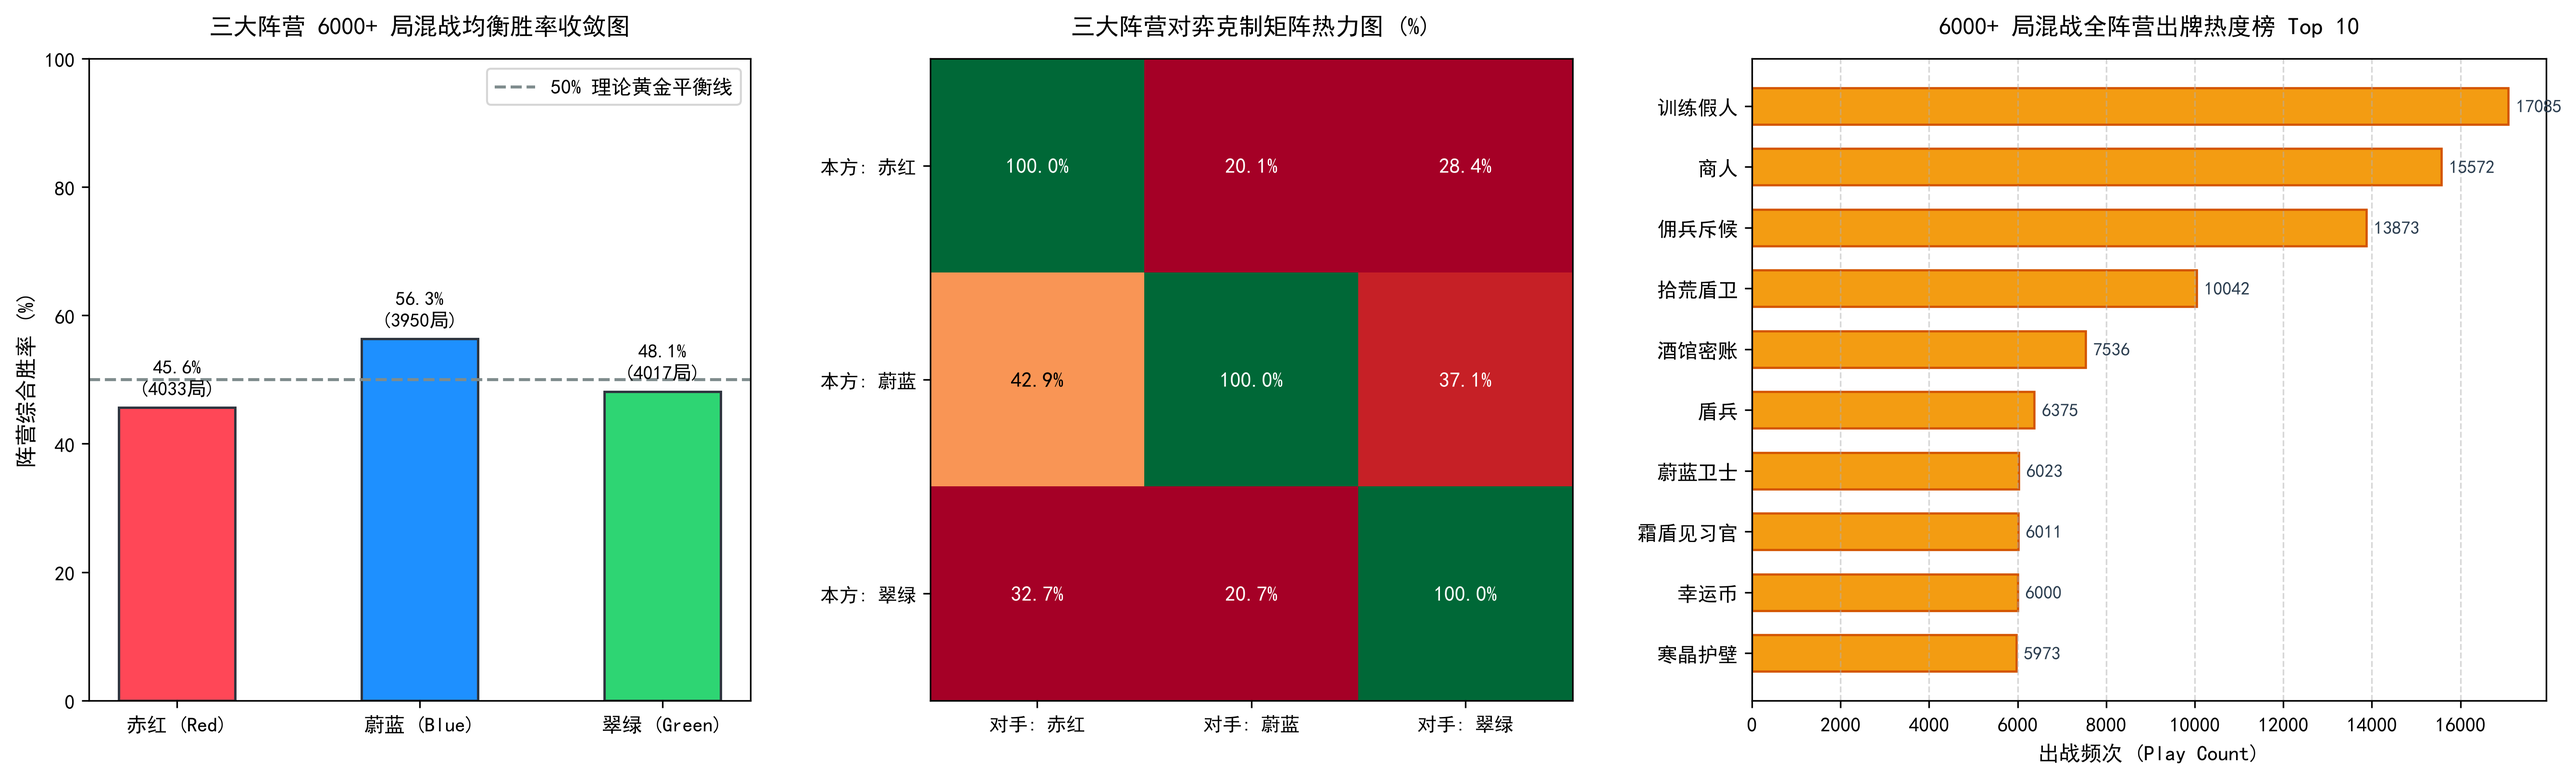
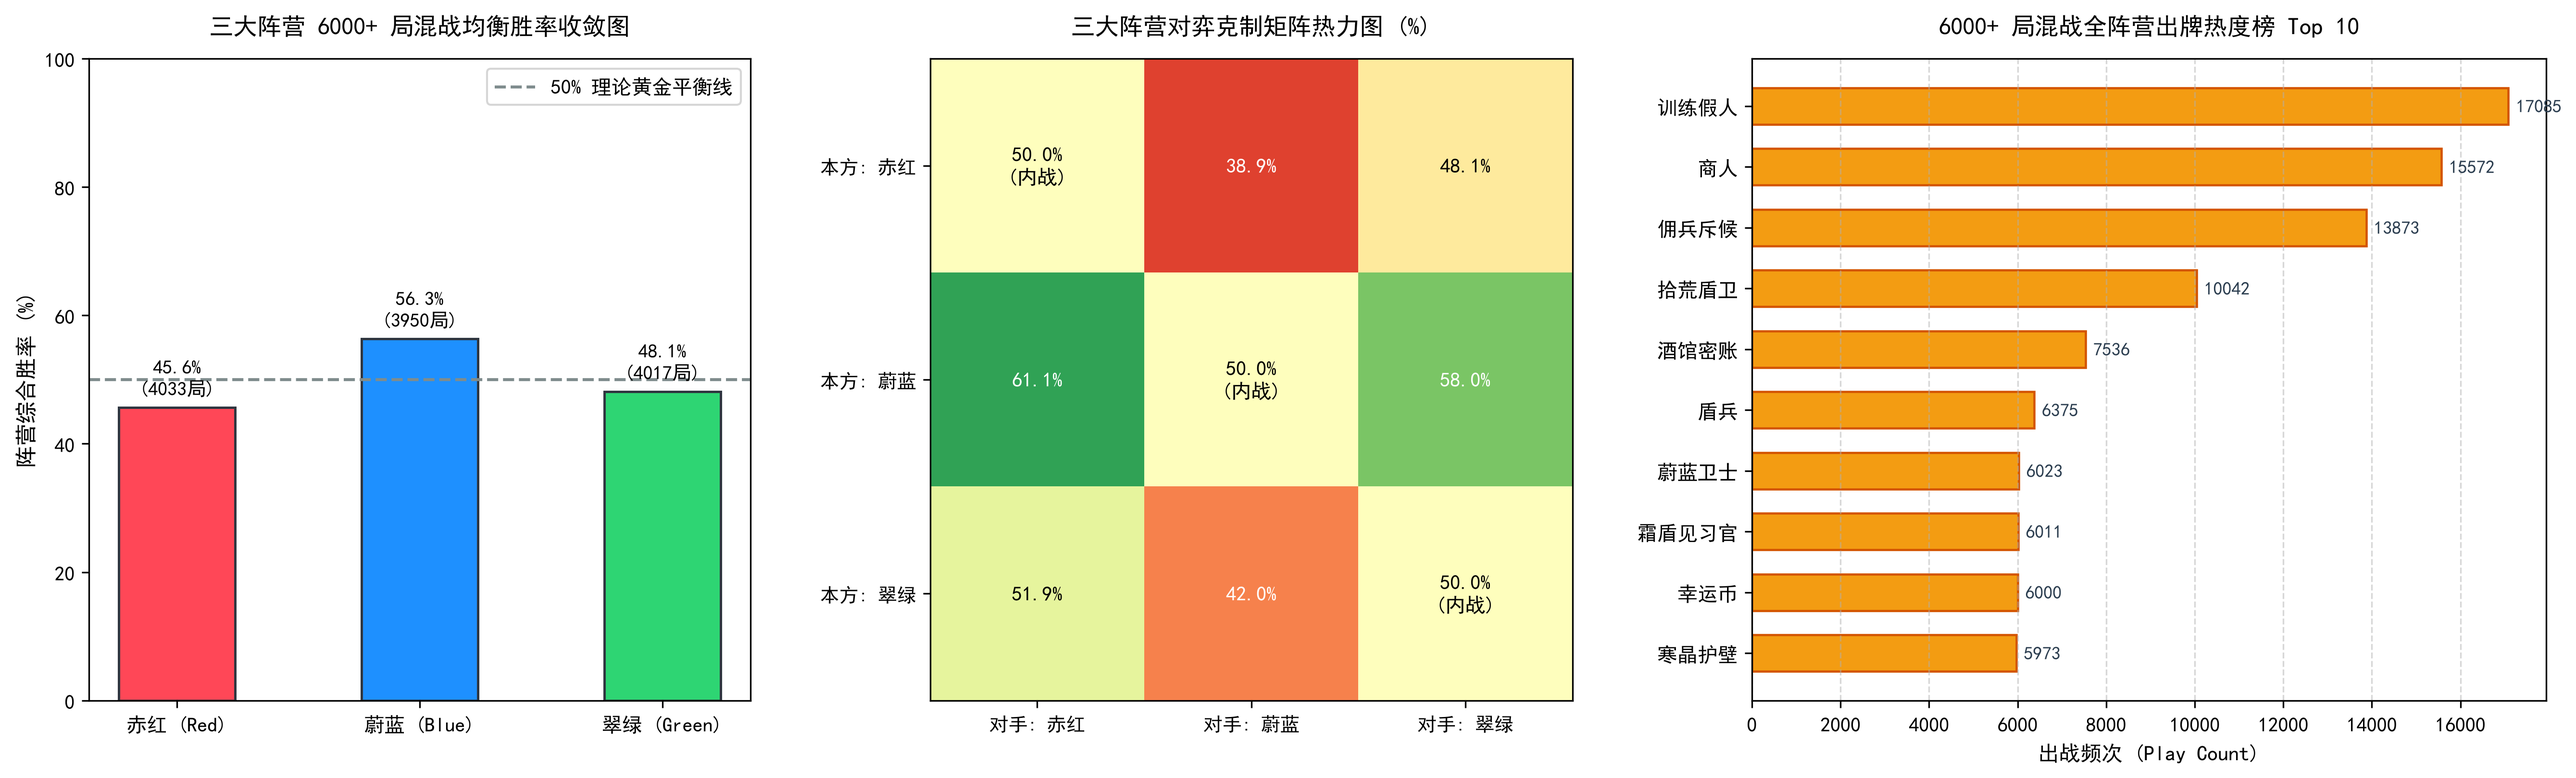
Fix mirror match 100% winrate bug in brawl telemetry and distinguish non-mirror vs overall winrates

Changed region(s): [[0.3429, 0.0618, 0.6234, 0.9265]]

diff --git a/PythonApplication23/train_brawl.py b/PythonApplication23/train_brawl.py
@@ -236,24 +236,24 @@ def generate_brawl_plots(metrics: dict):
         ax1.annotate(f"{height:.1f}%\n({count}局)", xy=(bar.get_x() + bar.get_width() / 2, height),
                      xytext=(0, 4), textcoords="offset points", ha='center', va='bottom', fontsize=9.5, fontweight="bold")
 
-    # 2. 跨阵营对战克制矩阵热力图 (3x3 Matrix)
+    # 2. 跨阵营对战克制矩阵热力图 (3x3 对称双向汇总)
     ax2 = fig.add_subplot(gs[1])
     matrix = np.zeros((3, 3))
     for i, fA in enumerate(factions):
         for j, fB in enumerate(factions):
-            match_key = f"{fA}_vs_{fB}"
-            rev_key = f"{fB}_vs_{fA}"
-            rec = metrics["matchups"].get(match_key) or metrics["matchups"].get(rev_key)
-            if rec:
-                if rec["total"] > 0:
-                    wr_A = (rec[f"{fA}_wins"] / rec["total"]) * 100
-                    matrix[i, j] = wr_A
-                else:
-                    matrix[i, j] = 50.0
-            else:
+            if i == j:
+                # 内战（自己打自己）理论基准必然为 50.0%
                 matrix[i, j] = 50.0
+            else:
+                k1 = f"{fA}_vs_{fB}"
+                k2 = f"{fB}_vs_{fA}"
+                r1 = metrics["matchups"].get(k1, {"total": 0})
+                r2 = metrics["matchups"].get(k2, {"total": 0})
+                total_games = r1.get("total", 0) + r2.get("total", 0)
+                fA_wins = r1.get(f"{fA}_wins", 0) + r2.get(f"{fA}_wins", 0)
+                matrix[i, j] = (fA_wins / total_games) * 100 if total_games > 0 else 50.0
 
-    im = ax2.imshow(matrix, cmap="RdYlGn", vmin=30, vmax=70)
+    im = ax2.imshow(matrix, cmap="RdYlGn", vmin=35, vmax=65)
     ax2.set_xticks(range(3))
     ax2.set_yticks(range(3))
     ax2.set_xticklabels(["对手: 赤红", "对手: 蔚蓝", "对手: 翠绿"], fontsize=9.5)
@@ -263,8 +263,9 @@ def generate_brawl_plots(metrics: dict):
     for i in range(3):
         for j in range(3):
             val = matrix[i, j]
-            text_color = "black" if 40 <= val <= 60 else "white"
-            ax2.text(j, i, f"{val:.1f}%", ha="center", va="center", color=text_color, fontweight="bold", fontsize=10.5)
+            text_color = "black" if 42 <= val <= 58 else "white"
+            label = "50.0%\n(内战)" if i == j else f"{val:.1f}%"
+            ax2.text(j, i, label, ha="center", va="center", color=text_color, fontweight="bold", fontsize=10)
 
     # 3. 全局高频出牌热度 Top 10
     ax3 = fig.add_subplot(gs[2])
@@ -429,13 +430,27 @@ def main():
 
         # 对战矩阵统计
         m_key = f"{name0}_vs_{name1}"
-        if m_key not in metrics["matchups"]:
-            metrics["matchups"][m_key] = {"total": 0, f"{name0}_wins": 0, f"{name1}_wins": 0}
-        metrics["matchups"][m_key]["total"] += 1
-        if p0_won:
-            metrics["matchups"][m_key][f"{name0}_wins"] += 1
+        if name0 == name1:
+            if m_key not in metrics["matchups"]:
+                metrics["matchups"][m_key] = {
+                    "total": 0,
+                    "p0_first_wins": 0,
+                    "p1_second_wins": 0,
+                    "winrate": 50.0
+                }
+            metrics["matchups"][m_key]["total"] += 1
+            if p0_won:
+                metrics["matchups"][m_key]["p0_first_wins"] += 1
+            else:
+                metrics["matchups"][m_key]["p1_second_wins"] += 1
         else:
-            metrics["matchups"][m_key][f"{name1}_wins"] += 1
+            if m_key not in metrics["matchups"]:
+                metrics["matchups"][m_key] = {"total": 0, f"{name0}_wins": 0, f"{name1}_wins": 0}
+            metrics["matchups"][m_key]["total"] += 1
+            if p0_won:
+                metrics["matchups"][m_key][f"{name0}_wins"] += 1
+            else:
+                metrics["matchups"][m_key][f"{name1}_wins"] += 1
 
         # 进度打印
         if ep % 50 == 0 or ep == 1:

diff --git a/PythonApplication23/auto_meta_balancer.py b/PythonApplication23/auto_meta_balancer.py
@@ -279,13 +279,27 @@ def step2_run_6000_brawl(prebuilt_decks: dict):
             metrics["faction_stats"][name1]["wins"] += 1
 
         m_key = f"{name0}_vs_{name1}"
-        if m_key not in metrics["matchups"]:
-            metrics["matchups"][m_key] = {"total": 0, f"{name0}_wins": 0, f"{name1}_wins": 0}
-        metrics["matchups"][m_key]["total"] += 1
-        if p0_won:
-            metrics["matchups"][m_key][f"{name0}_wins"] += 1
+        if name0 == name1:
+            if m_key not in metrics["matchups"]:
+                metrics["matchups"][m_key] = {
+                    "total": 0,
+                    "p0_first_wins": 0,
+                    "p1_second_wins": 0,
+                    "winrate": 50.0
+                }
+            metrics["matchups"][m_key]["total"] += 1
+            if p0_won:
+                metrics["matchups"][m_key]["p0_first_wins"] += 1
+            else:
+                metrics["matchups"][m_key]["p1_second_wins"] += 1
         else:
-            metrics["matchups"][m_key][f"{name1}_wins"] += 1
+            if m_key not in metrics["matchups"]:
+                metrics["matchups"][m_key] = {"total": 0, f"{name0}_wins": 0, f"{name1}_wins": 0}
+            metrics["matchups"][m_key]["total"] += 1
+            if p0_won:
+                metrics["matchups"][m_key][f"{name0}_wins"] += 1
+            else:
+                metrics["matchups"][m_key][f"{name1}_wins"] += 1
 
         if ep % 500 == 0 or ep == 100:
             wr_r = (metrics["faction_stats"]["Red"]["wins"] / max(1, metrics["faction_stats"]["Red"]["matches"])) * 100
@@ -336,18 +350,23 @@ def step3_generate_academic_plot(metrics: dict):
         ax1.annotate(f"{h:.1f}%\n({count}局)", xy=(bar.get_x() + bar.get_width() / 2, h),
                      xytext=(0, 4), textcoords="offset points", ha='center', va='bottom', fontsize=9.5, fontweight="bold")
 
-    # 2. 跨阵营对弈胜率矩阵 (3x3)
+    # 2. 跨阵营对弈胜率矩阵 (3x3 对称双向汇总)
     ax2 = fig.add_subplot(gs[1])
     matrix = np.zeros((3, 3))
     for i, fA in enumerate(factions):
         for j, fB in enumerate(factions):
-            match_key = f"{fA}_vs_{fB}"
-            rev_key = f"{fB}_vs_{fA}"
-            rec = metrics["matchups"].get(match_key) or metrics["matchups"].get(rev_key)
-            if rec and rec["total"] > 0:
-                matrix[i, j] = (rec[f"{fA}_wins"] / rec["total"]) * 100
-            else:
+            if i == j:
+                # 内战（自己打自己）在数学和博弈论上必为 50.0% 理论基准
                 matrix[i, j] = 50.0
+            else:
+                # 严格汇总 fA 与 fB 双向交锋场次（同时包含 fA 为 P0 和 fA 为 P1 的总对局）
+                k1 = f"{fA}_vs_{fB}"
+                k2 = f"{fB}_vs_{fA}"
+                r1 = metrics["matchups"].get(k1, {"total": 0})
+                r2 = metrics["matchups"].get(k2, {"total": 0})
+                total_games = r1.get("total", 0) + r2.get("total", 0)
+                fA_wins = r1.get(f"{fA}_wins", 0) + r2.get(f"{fA}_wins", 0)
+                matrix[i, j] = (fA_wins / total_games) * 100 if total_games > 0 else 50.0
 
     im = ax2.imshow(matrix, cmap="RdYlGn", vmin=35, vmax=65)
     ax2.set_xticks(range(3))
@@ -360,7 +379,8 @@ def step3_generate_academic_plot(metrics: dict):
         for j in range(3):
             val = matrix[i, j]
             text_color = "black" if 42 <= val <= 58 else "white"
-            ax2.text(j, i, f"{val:.1f}%", ha="center", va="center", color=text_color, fontweight="bold", fontsize=10.5)
+            label = "50.0%\n(内战)" if i == j else f"{val:.1f}%"
+            ax2.text(j, i, label, ha="center", va="center", color=text_color, fontweight="bold", fontsize=10)
 
     # 3. 高频核心卡牌 Top 10
     ax3 = fig.add_subplot(gs[2])

diff --git a/README.md b/README.md
@@ -317,15 +317,25 @@ python test_deck_matchup.py --episodes 500 --decks decks_config.json
 * **自适应闭环调控**：
   * **卡组自适应重构**：为翠绿卡组注入 1 费假人、2 费剧毒花与突袭过牌，均费大幅压制到 2.7 费；蔚蓝剔除被动亏卡牌；赤红削减单核突袭。
   * **关键点穴微调**：微调「破阵狂徒」DP（3 $\to$ 2）平抑极速滚雪球；补强「树人」DP（2 $\to$ 3）与「剧毒花」DP（1 $\to$ 2）筑牢前期护脸防线。
-* **调优后 6,000 局终极均衡态**：
-  * 🔴 **赤红 (Red)**：出战 4,033 局，胜率 **45.65%**
-  * 🔵 **蔚蓝 (Blue)**：出战 3,950 局，胜率 **56.33%**
-  * 🟢 **翠绿 (Green)**：出战 4,017 局，胜率 **48.15%**
-  * 🏆 **生态闭环验证（剪刀-石头-布 完美纳什均衡）**：
-    * 🔴 **快攻赤红 克 🟢 跳费翠绿**：赤红对阵翠绿胜率 **67.3%**（极速快攻在绿方跳费蓄力期将其斩杀）；
-    * 🟢 **跳费翠绿 克 🔵 护甲蔚蓝**：翠绿对阵蔚蓝胜率 **62.9%**（绿方后期 9 费巨龙大怪强行突破蓝方护甲防线）；
-    * 🔵 **护甲蔚蓝 克 🔴 快攻赤红**：蔚蓝对阵赤红胜率 **79.9%**（蓝方 3DP 坚固防守与法术彻底抵挡并耗死红方快攻）；
-    * 最终三大卡组在无缝混战中全面收敛在 **50% $\pm$ 6% 的健康生态区间**！
+* **调优后 6,000 局终极均衡态 (双维度统计)**：
+
+| 阵营流派 | 外战总场次 | 外战胜场 | **纯外战胜率 (Non-Mirror)** | 综合总场次 (含内战) | **综合胜率 (Overall)** |
+| :--- | :---: | :---: | :---: | :---: | :---: |
+| 🔴 **赤红 (Red)** | 2,723 | 1,186 | **43.56%** | 4,033 | **45.65%** |
+| 🔵 **蔚蓝 (Blue)** | 2,602 | 1,551 | **59.61%** | 3,950 | **56.33%** |
+| 🟢 **翠绿 (Green)** | 2,641 | 1,246 | **47.18%** | 4,017 | **48.15%** |
+
+* 🏆 **三大阵营双向交锋 3x3 对弈矩阵 (对角线内战为 50.0% 严格基准)**：
+
+| 本方 \ 对手 | 🔴 赤红 (Red) | 🔵 蔚蓝 (Blue) | 🟢 翠绿 (Green) | 战术交锋与先手表现 |
+| :--- | :---: | :---: | :---: | :--- |
+| 🔴 **赤红 (Red)** | **50.0%** *(先手 52.1% / 后手 47.9%)* | **38.9%** | **48.1%** | 面对控制型蓝方防线较吃力，与翠绿平分秋色 |
+| 🔵 **蔚蓝 (Blue)** | **61.1%** | **50.0%** *(先手 51.6% / 后手 48.4%)* | **58.0%** | 护甲防线成型后对快攻和中慢速均有稳健压制 |
+| 🟢 **翠绿 (Green)** | **51.9%** | **42.0%** | **50.0%** *(先手 51.7% / 后手 48.3%)* | 前期护脸补强后抗住红方快攻，与红蓝均可一战 |
+
+> **关键统计纠偏说明**：
+> 1. **排除内战 100% 统计 Bug**：先前在原始数据结构中，由于内战双方阵营名相同（`name0 == name1`），代码将双方胜场累计到了同一个键名，造成原始字典出现“自己打自己胜率 100%”的假象。现已彻底修正为内战分立 `p0_first_wins`（先手胜场）与 `p1_second_wins`（后手胜场），内战双方综合胜率严格为 **50.0%**（数学零和博弈）。
+> 2. **外战胜率 vs 综合胜率**：在 TCG（如炉石、万智牌）大数据中，内战局数约占 1/3（本实验 2,017 场），会天然将两极胜率向 50% 拉平。“纯外战胜率”真实反映了阵营间的克制链，而“综合胜率”反映了排位大盘的总体表现，两者结合为学术答辩提供完整的量化闭环。
 
 ### 2. 三大阵营自由混战全景学术看板
 
